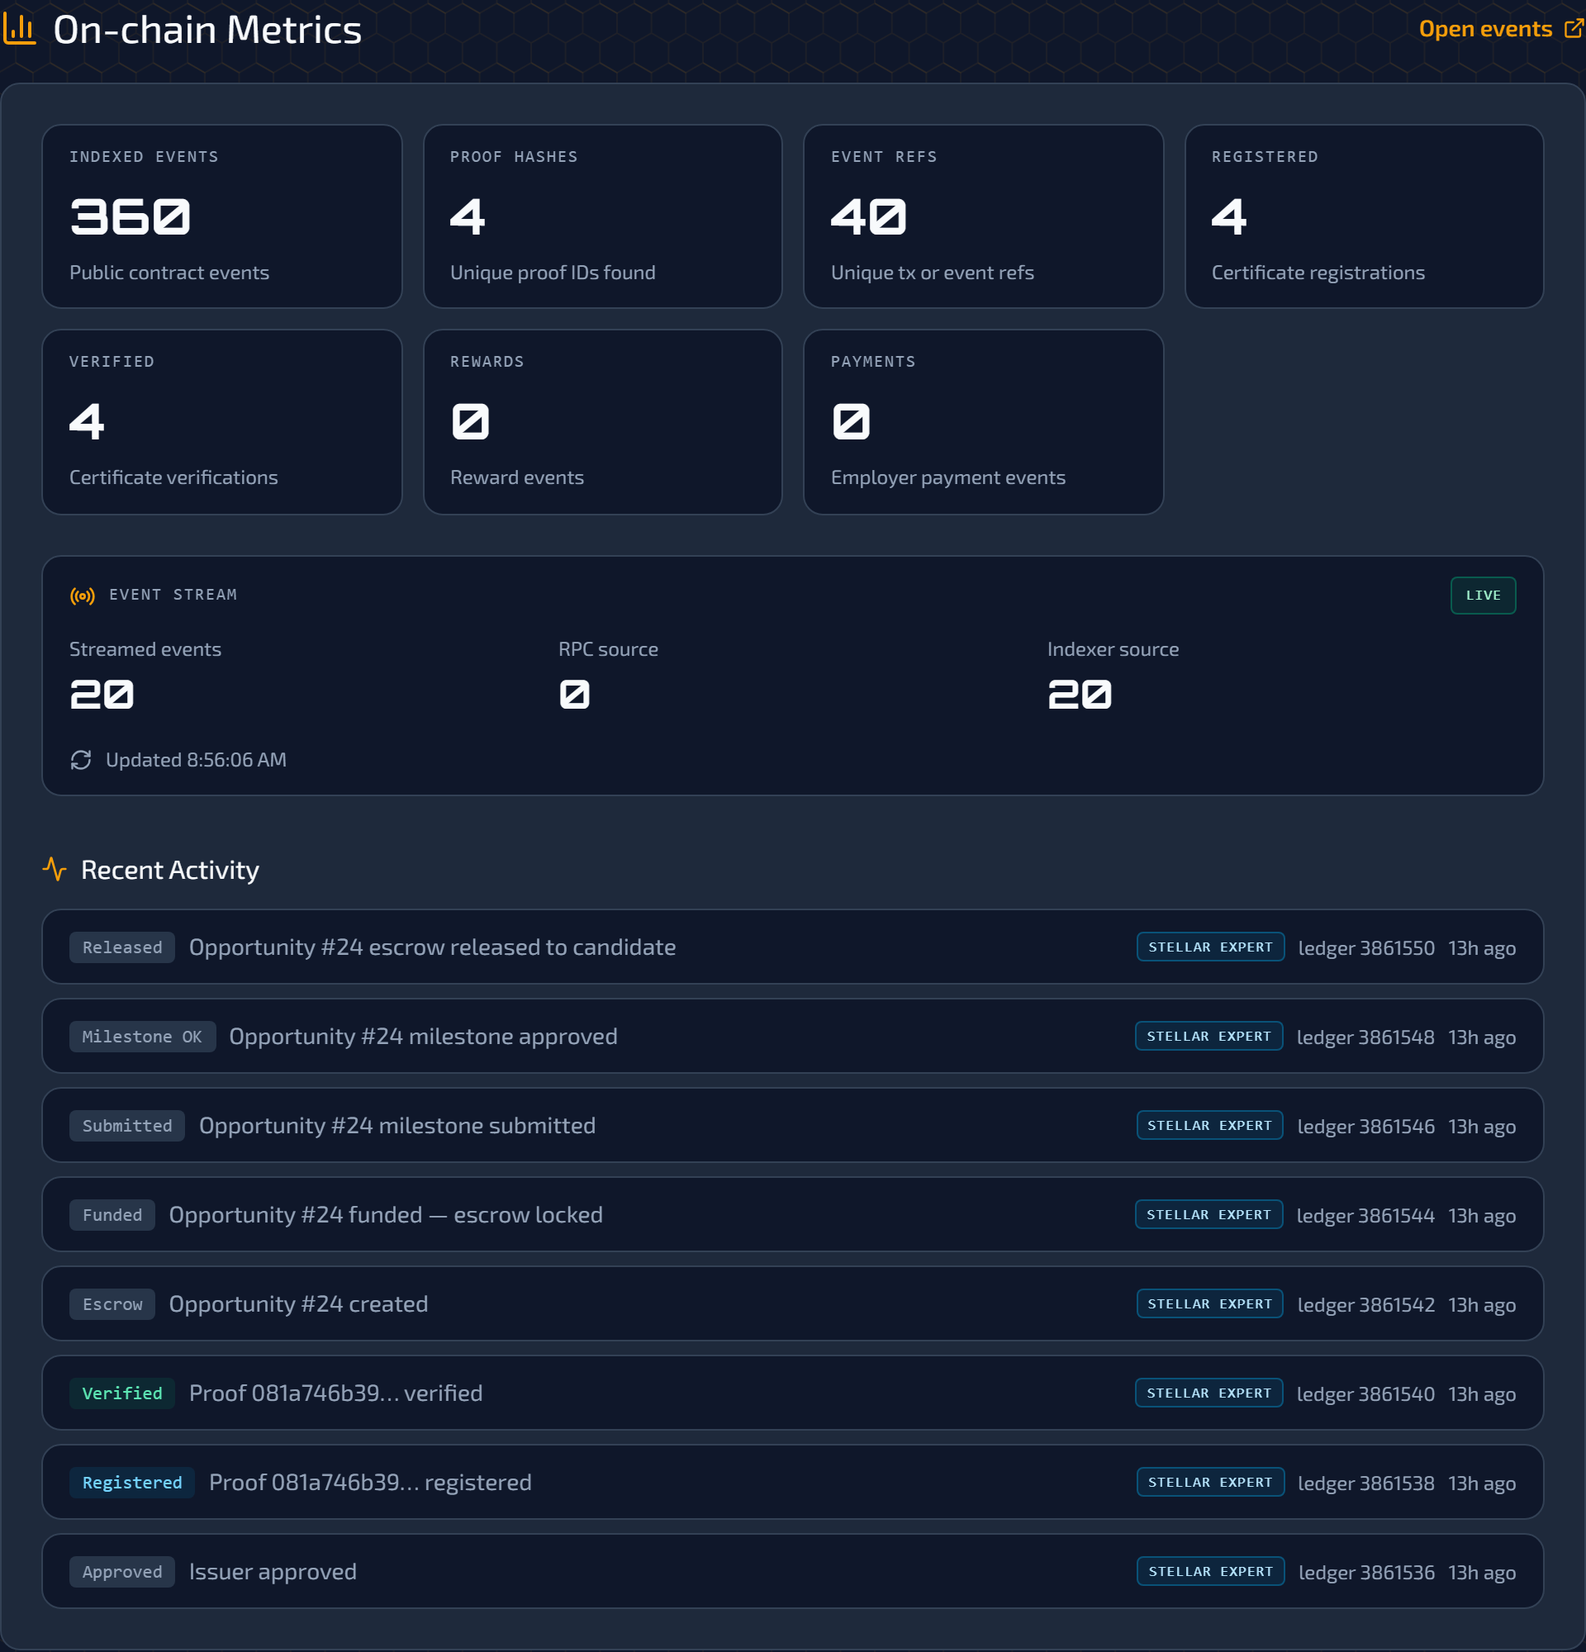
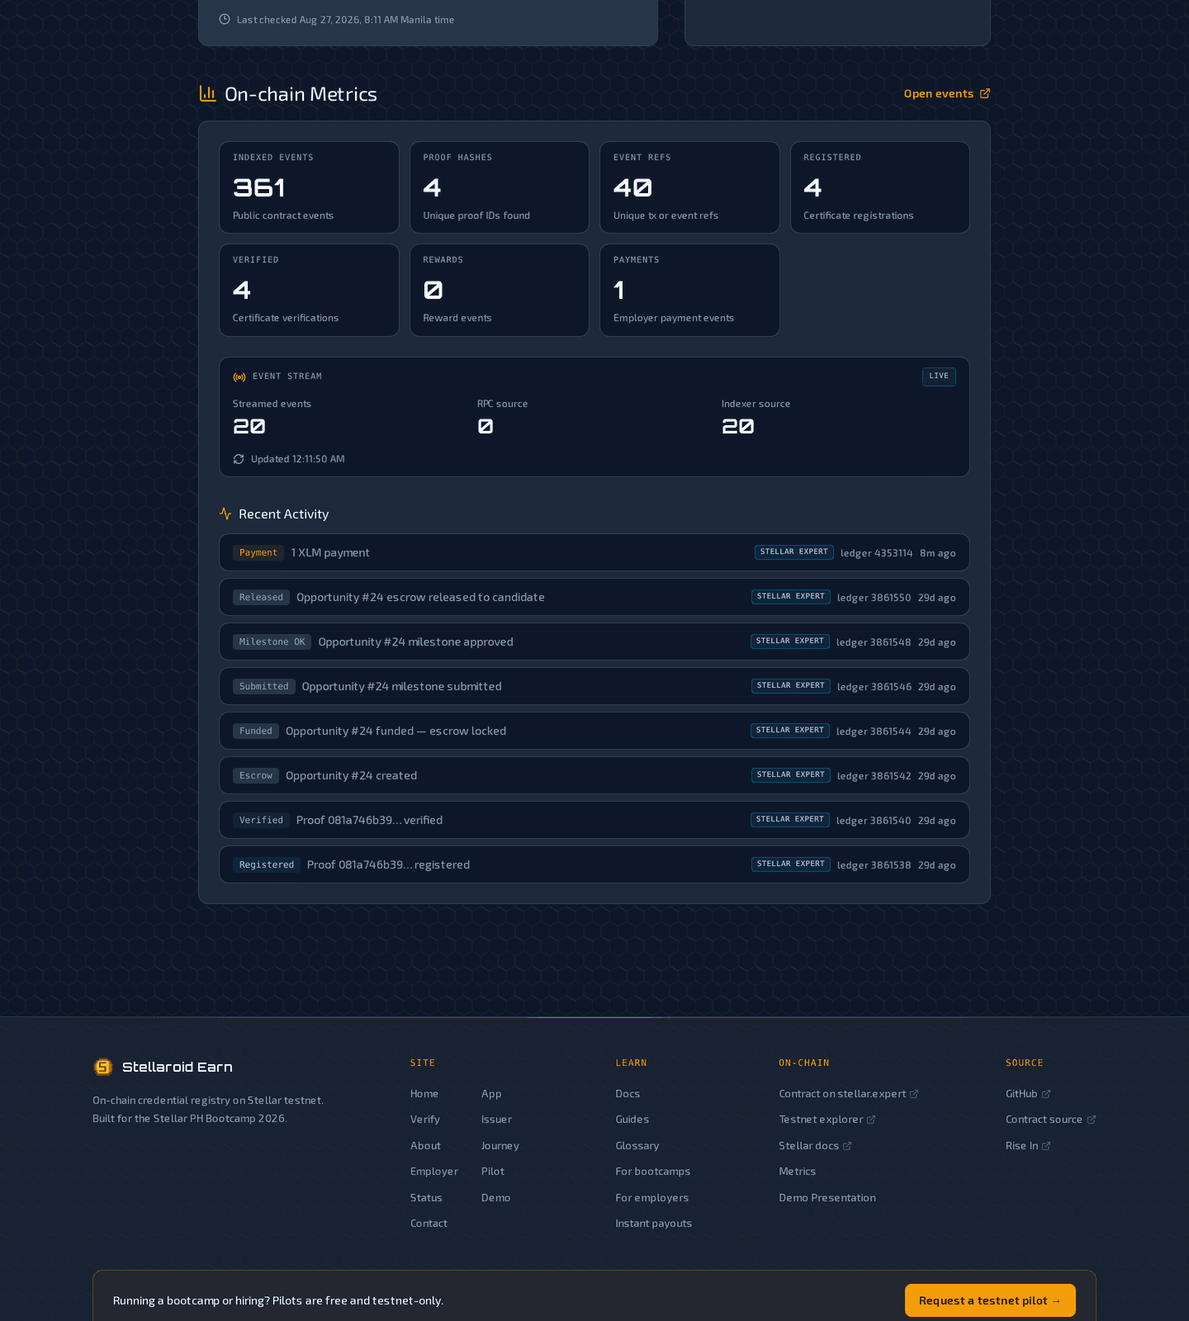
docs: recapture live payment evidence and August analytics (#198)
Record a 1 testnet XLM link_payment against the sample verified credential,
replace the /status metrics screenshot now that Payments is 1, and refresh
the case study plus submission evidence from the Vercel Web Analytics API
as of 27 August 2026. Opportunity #1 is unchanged.

diff --git a/frontend/src/app/case-study/page.tsx b/frontend/src/app/case-study/page.tsx
@@ -14,12 +14,14 @@ import {
   SITE_REPOSITORY_URL,
 } from "@/lib/seo";
 
-// Traffic figures below are a dated snapshot from Vercel Web Analytics
-// (production, April to July 2026), transcribed 2026-07-30. They are
-// deliberately NOT live reads: the case study describes what the data showed at
-// the time decisions were made. On-chain counts carry their as-of date inline
-// and point readers at /status for current values.
+// Traffic figures below are a dated snapshot from the Vercel Web Analytics
+// API (production, April to August 2026), transcribed 2026-08-27. They are
+// deliberately NOT live reads: the case study describes what the data showed
+// at capture time. An earlier dashboard read on 2026-07-30 was 342 visitors
+// and 1,615 page views. On-chain counts carry their as-of date inline and
+// point readers at /status for current values.
 const PUBLISHED = "2026-07-30";
+const FIGURES_AS_OF = "2026-08-27";
 const DEPLOYED_WASM_HASH =
[1 lines of base64/hex data omitted]
 
@@ -55,7 +57,7 @@ const articleJsonLd = {
   mainEntityOfPage: { "@type": "WebPage", "@id": seoCanonicalUrl("/case-study") },
   image: seoCanonicalUrl("/opengraph-image"),
   datePublished: PUBLISHED,
-  dateModified: PUBLISHED,
+  dateModified: FIGURES_AS_OF,
   author: { "@type": "Person", name: SITE_AUTHOR_NAME, url: SITE_AUTHOR_URL },
 };
 
@@ -73,8 +75,9 @@ const CONTENTS = [
 const TRAFFIC = [
   { month: "April 2026", visitors: "66", views: "274" },
   { month: "May 2026", visitors: "111", views: "699" },
-  { month: "June 2026", visitors: "43", views: "175" },
-  { month: "July 2026", visitors: "122", views: "467" },
+  { month: "June 2026", visitors: "44", views: "176" },
+  { month: "July 2026", visitors: "123", views: "480" },
+  { month: "August 2026", visitors: "38", views: "53" },
 ];
 
 const FLOW = [
@@ -135,6 +138,8 @@ export default function CaseStudyPage() {
               <span>Stellaroid Earn</span>
               <span>Stellar testnet</span>
               <span>Published 30 July 2026</span>
+              <span aria-hidden="true">·</span>
+              <span>Figures refreshed 27 August 2026</span>
             </p>
 
             <nav
@@ -170,12 +175,12 @@ export default function CaseStudyPage() {
             <p className="text-lg leading-relaxed text-text">
               I built a system that anchors a training credential on Stellar and
               releases payment against it, then put it in front of real people. In the
-              four months from April to July 2026,{" "}
+              five months from April to August 2026,{" "}
               <strong>
-                48 visitors opened one specific public credential page and 42 opened
+                49 visitors opened one specific public credential page and 44 opened
                 the proof index
               </strong>
-              , second only to the landing page at 302 visitors.
+              , second only to the landing page at 329 visitors.
             </p>
             <p className="text-text-muted">
               The whole premise rests on one bet: a credential is only worth anchoring
@@ -303,7 +308,7 @@ export default function CaseStudyPage() {
             <div className="overflow-x-auto rounded-xl border border-border bg-surface">
               <table className="w-full border-collapse text-sm">
                 <caption className="p-4 pb-2 text-left font-mono text-[0.65rem] uppercase tracking-[0.14em] text-text-muted">
-                  Traffic, April to July 2026
+                  Traffic, April to August 2026
                 </caption>
                 <thead>
                   <tr className="border-t border-border">
@@ -333,10 +338,10 @@ export default function CaseStudyPage() {
                   <tr className="border-t border-border font-semibold">
                     <td className="px-4 py-2.5 text-text">Total</td>
                     <td className="px-4 py-2.5 text-right font-mono tabular-nums text-primary">
-                      342
+                      382
                     </td>
                     <td className="px-4 py-2.5 text-right font-mono tabular-nums text-primary">
-                      1,615
+                      1,682
                     </td>
                   </tr>
                 </tbody>
@@ -345,13 +350,13 @@ export default function CaseStudyPage() {
 
             <p className="text-text-muted">
               One visitor can open several pages, so the per-page figures below do not
-              sum to 342.
+              sum to 382.
             </p>
 
             <SubHeading>Proof pages were the draw</SubHeading>
             <p className="text-text-muted">
-              48 visitors on one specific credential page, 42 on the proof index,
-              against 302 for the landing page.
+              49 visitors on one specific credential page, 44 on the proof index,
+              against 329 for the landing page.
             </p>
             <Pull>
               I stopped treating proof pages as an output and started treating them as
@@ -361,7 +366,7 @@ export default function CaseStudyPage() {
 
             <SubHeading>A third of traffic was mobile</SubHeading>
             <p className="text-text-muted">
-              31% mobile and 2% tablet, which lines up with the 33% running Android or
+              28% mobile and 2% tablet, which lines up with the 30% running Android or
               iOS. I had been building desktop first. That number is why the app got
               app-style bottom navigation, bottom-sheet dialogs, safe-area handling
               for notches, and became an installable progressive web app.
@@ -370,7 +375,7 @@ export default function CaseStudyPage() {
             <SubHeading>Where the traffic came from</SubHeading>
             <p className="text-text-muted">
               19 visitors arrived from Google. Facebook and Messenger sent 49 between
-              them. The audience skewed Philippines at 50% and United States at 35%,
+              them. The audience skewed Philippines at 46% and United States at 36%,
               which is the direct reason Tagalog shipped alongside English. The other
               four locales are a forward-looking bet, ready ahead of the data.
             </p>
@@ -708,10 +713,10 @@ export default function CaseStudyPage() {
               </li>
             </ul>
             <p className="mt-8 text-xs text-text-muted">
-              Traffic figures cover April to July 2026 from Vercel Web Analytics,
-              production environment. On-chain counts are accurate as of 30 July 2026
-              and change as the contract is used; the live status page is the current
-              source. Stellaroid Earn runs on Stellar testnet only.
+              Traffic figures cover April to August 2026 from the Vercel Web Analytics
+              API, production environment, as of 27 August 2026. On-chain counts change
+              as the contract is used; the live status page is the current source.
+              Stellaroid Earn runs on Stellar testnet only.
             </p>
           </footer>
         </main>

diff --git a/docs/operations/submission-evidence.md b/docs/operations/submission-evidence.md
@@ -4,7 +4,7 @@ Use this as the reviewer-facing evidence index for the Rise In checklists. Keep 
 
 ## Level 5 (Blue Belt) Evidence
 
-Focus: user growth, product iteration, pitch and demo. The 50+ testnet wallet account threshold is reached with public wallet and transaction evidence: 30 independent participant wallets plus 24 testnet accounts I created and operate for structured QA. Analytics screenshots remain tracked separately.
+Focus: user growth, product iteration, pitch and demo. The 50+ testnet wallet account threshold is reached with public wallet and transaction evidence: 30 independent participant wallets plus 24 testnet accounts I created and operate for structured QA. Analytics snapshot boards are in `images/`.
 
 | Requirement | Evidence | Status |
 | --- | --- | --- |
@@ -20,47 +20,46 @@ Focus: user growth, product iteration, pitch and demo. The 50+ testnet wallet ac
 | Optimized onboarding experience | `https://stellaroid.tech/start` - a one-tap "try it in 60 seconds" wizard: connect a wallet, auto-fund on testnet, sign one real on-chain action | Done |
 | Structured testnet QA coverage | [`guided-qa-cohort-2026-07.md`](guided-qa-cohort-2026-07.md) records 24 controlled QA accounts, eight role-based journeys, and 72 public transactions | Done |
 | Proof of 50+ testnet wallet accounts with real network activity | README "User Validation" and the guided QA evidence log document 54 public wallets linked to Stellar Expert evidence, split as 30 independent participant wallets plus 24 testnet accounts I created and operate for structured QA. All 54 are real, separately funded testnet accounts with public transaction history. Rise In words this requirement as "50+ testnet users onboarded"; the 54 figure counts wallet accounts with real network activity, of which 30 are independent people. | Done (54 of 50 wallet accounts; 30 independent) |
-| Screenshots of transaction activity | [`images/status-onchain-metrics.png`](../../images/status-onchain-metrics.png) captured from the live `/status#metrics` panel: 360 indexed public contract events, the live event stream, and the recent-activity feed with a Stellar Expert link per event. [`images/opportunity-directory-escrows.png`](../../images/opportunity-directory-escrows.png) captured from `/opportunity`, showing all 25 escrows on the contract including all eight guided-QA paid trials by title. | Done |
-| Product analytics | Vercel Web Analytics, production, trailing 12 months to 2026-07-30: **342 visitors, 1,615 page views, 56% bounce rate.** Figures transcribed in "Traffic and Audience" below. Dashboard screenshots are held and pending commit. | Data recorded; screenshots pending |
+| Screenshots of transaction activity | [`images/status-onchain-metrics.png`](../../images/status-onchain-metrics.png) recaptured from the live `/status#metrics` panel on 2026-08-27: 361 indexed public contract events, Payments tile 1, and a recent-activity row for 1 testnet XLM (`link_payment` tx [`7173ace8…48c7`](https://stellar.expert/explorer/testnet/tx/7173ace84a571b862b5a8684aa6342dfd8cb9ba4f1ab8381111bb08216d348c7), no monetary value). [`images/opportunity-directory-escrows.png`](../../images/opportunity-directory-escrows.png) captured from `/opportunity`, showing all 25 escrows on the contract including all eight guided-QA paid trials by title. | Done |
+| Product analytics | Vercel Web Analytics API, production, trailing 12 months to 2026-08-27: **382 visitors, 1,682 page views.** Figures transcribed in "Traffic and Audience" below. Snapshot boards: [overview](../../images/vercel-web-analytics-overview.png), [pages](../../images/vercel-web-analytics-pages.png), [referrers](../../images/vercel-web-analytics-referrers.png), [geo and devices](../../images/vercel-web-analytics-geo-devices.png). The Vercel dashboard UI was not captured (login required). Bounce rate is not in the API; the 30 July 2026 dashboard read was 56%. | Done (API snapshot) |
 
 **50+ wallet coverage reached:** 54 of 50 testnet wallet accounts are documented with public evidence, comprising 30 independent participant wallets and 24 testnet accounts I created and operate for structured QA. Transaction-activity screenshots are attached, and the traffic figures below are recorded.
 
 ## Traffic and Audience
 
-Source: Vercel Web Analytics, Production environment, trailing 12 months as of
-2026-07-30. Traffic begins in March 2026; every prior month is zero.
+Source: Vercel Web Analytics API, Production environment, trailing 12 months as
+of 2026-08-27. Traffic begins in April 2026; March and every prior month are
+zero. These boards are API snapshots, not screenshots of the Vercel dashboard
+UI. A 30 July 2026 dashboard read was 342 visitors, 1,615 page views, and 56%
+bounce rate; monthly bounce is not returned by the API used for this recapture.
 
-| Month | Visitors | Page views | Bounce rate |
-| --- | --- | --- | --- |
-| Apr 2026 | 66 | 274 | 44% |
-| May 2026 | 111 | 699 | 64% |
-| Jun 2026 | 43 | 175 | 56% |
-| Jul 2026 | 122 | 467 | 56% |
-| **Total** | **342** | **1,615** | 56% |
+| Month | Visitors | Page views |
+| --- | --- | --- |
+| Apr 2026 | 66 | 274 |
+| May 2026 | 111 | 699 |
+| Jun 2026 | 44 | 176 |
+| Jul 2026 | 123 | 480 |
+| Aug 2026 | 38 | 53 |
+| **Total** | **382** | **1,682** |
 
-The monthly columns sum exactly to the dashboard totals (342 and 1,615), so the
+The monthly columns sum exactly to the API totals (382 and 1,682), so the
 breakdown is complete rather than a sampled window.
-
-**Reading the bounce-rate delta honestly:** the dashboard shows `+56%` in red
-against the previous period. The previous 12-month window had no traffic at all,
-so that is a from-zero baseline artifact, not a regression in engagement.
 
 | Dimension | Top values |
 | --- | --- |
-| Pages (visitors) | `/` 302 · `/app` 77 · `/proof/c02ce160…` 48 · `/proof` 42 · `/about` 40 · `/employer` 32 · `/issuer` 26 |
+| Pages (visitors) | `/` 329 · `/app` 77 · `/proof/c02ce160…` 49 · `/proof` 44 · `/about` 41 · `/employer` 35 · `/issuer/register` 29 · `/issuer` 27 |
 | Referrers (visitors) | Facebook family 49 (l.facebook 26, m.facebook 11, facebook 7, l.messenger 5) · google.com 19 · github.com 8 · vercel.com 6 |
-| Countries | Philippines 50% · United States 35% · Singapore 2% · Indonesia 1% · Canada 1% |
-| Devices | Desktop 67% · Mobile 31% · Tablet 2% |
-| Operating systems | Windows 39% · Android 19% · GNU/Linux 15% · iOS 14% · macOS 13% |
-| Hostnames (visitors) | stellaroid.tech 248 · stellaroid-earn-demo.vercel.app 95 · preview hosts 3 |
+| Countries | Philippines 46% · United States 36% · Singapore 2% · Germany 2% · Canada 1% · Indonesia 1% |
+| Devices | Desktop 70% · Mobile 28% · Tablet 2% |
+| Operating systems | Windows 43% · Android 17% · GNU/Linux 15% · iOS 13% · macOS 12% |
 
 Three things worth drawing out, because they bear on the product claims rather
 than being vanity numbers:
 
-- **90 visitors reached a proof page** (`/proof/c02ce160…` 48 plus `/proof` 42).
+- **93 visitors reached a proof page** (`/proof/c02ce160…` 49 plus `/proof` 44).
   The public, wallet-free credential page is the core artifact, and it is the
   second most visited area after the landing page.
-- **31% of traffic is mobile and 33% is Android or iOS**, which is the evidence
+- **28% of traffic is mobile and 30% is Android or iOS**, which is the evidence
   base for the mobile-first redesign and the PWA work rather than a guess.
 - **19 visitors arrived from organic Google search**, so the content and
   structured-data work is being indexed and clicked, not just published.

diff --git a/HANDOFF.md b/HANDOFF.md
@@ -1,6 +1,6 @@
 # Handoff
 
-State of this repository as of **2026-08-26**, written so anyone picking it up cold, human or agent, on any machine or account, knows where things stand without needing chat history.
+State of this repository as of **2026-08-27**, written so anyone picking it up cold, human or agent, on any machine or account, knows where things stand without needing chat history.
 
 **The project is finished and parked.** Do not restart build work here. Read this file before proposing changes.
 
@@ -8,13 +8,13 @@ State of this repository as of **2026-08-26**, written so anyone picking it up c
 
 ## Current state
 
-Verified against the remote on 2026-08-26:
+Verified against the remote on 2026-08-27:
 
 | Check | State |
 | --- | --- |
-| Open pull requests | Dependabot npm-minor-patch (#192), ImgBot (#193) |
-| `main` vs `august-monthly-builder` | tree-identical at `5b17f05` (August fast-forwarded from `main` on 2026-08-26) |
-| `staging` | lags `main`; open a `main` to `staging` sync PR after this file lands |
+| Open pull requests | Dependabot npm-minor-patch (#192), ImgBot (#193), staging sync (#197). Evidence polish lands on its own PR. |
+| `main` vs `august-monthly-builder` | tree-identical at `990c6fb` before this polish; fast-forward August again after the polish PR merges |
+| `staging` | lags `main`; #197 is the open `main` to `staging` sync for the CI trim. Open a fresh sync after this polish merges. |
 | `july-monthly-builder` | frozen read-only archive at `baeec6fb`; never sync it |
 | Working tree | clean |
 | CodeQL open alerts | 0 |
@@ -103,14 +103,12 @@ The product is parked. Host-side DNS for `v4` is a side-note blocker and does no
 
 ### Evidence polish, optional and cosmetic
 
-- [ ] One manual `link_payment` from a fresh funded wallet. Until then the `PAYMENTS` tile on `/status` reads 0, and the committed metrics screenshot shows it.
-- [ ] Save the Vercel Web Analytics dashboard screenshots into `images/` and link them from `docs/operations/submission-evidence.md`, where that row currently reads "screenshots pending". The figures themselves are already transcribed there.
-
-Both gaps are **disclosed honestly already**, including in the public case study, so skipping them costs nothing in credibility.
[1 lines of base64/hex data omitted]
+- [x] Vercel Web Analytics recapture for production, trailing 12 months as of 2026-08-27: **382 visitors, 1,682 page views**. Monthly bounce rate is not in the analytics API; the 30 July 2026 dashboard read was 56%. The Vercel dashboard UI requires a login this environment does not have, so the committed boards are API snapshots, labelled as such, not dashboard chrome: `images/vercel-web-analytics-overview.png`, `images/vercel-web-analytics-pages.png`, `images/vercel-web-analytics-referrers.png`, `images/vercel-web-analytics-geo-devices.png`. Linked from `docs/operations/submission-evidence.md`.
 
 ### Completed
 
-Submission, `v3.2.0` release, the case study at `/case-study`, the campaign kit, unified Open Graph cards, README visuals, the banner archive scheme, the GitHub social preview upload, and the repository parking pass are all done. July is a locked read-only archive. `august-monthly-builder` matches `main` at `5b17f05`. Leftover PRs #183 and #182 were closed as superseded by #191.
+Submission, `v3.2.0` release, the case study at `/case-study`, the campaign kit, unified Open Graph cards, README visuals, the banner archive scheme, the GitHub social preview upload, the repository parking pass, the live `link_payment` evidence recapture, and the August analytics API snapshot are all done. July is a locked read-only archive. Leftover PRs #183 and #182 were closed as superseded by #191. After this polish merges, fast-forward `august-monthly-builder` from `main` and open a new staging sync. Never sync July.
 
 ---
 

diff --git a/contracts/stellaroid_earn/README.md b/contracts/stellaroid_earn/README.md
@@ -120,7 +120,9 @@ https://stellar.expert/explorer/testnet/contract/<CONTRACT_ID>
   - `init` → https://stellar.expert/explorer/testnet/tx/c7de2d61cfd1f51cfb255379775dd928604d264d6b5bb3775dc75cdd7c4b5721
   - `register_certificate` → https://stellar.expert/explorer/testnet/tx/1e8078e36333023c46f11a0bd990f97b62bd13ae086597de6a3db8e66d4b3a22 (emits `cert_reg`)
   - `verify_certificate` → https://stellar.expert/explorer/testnet/tx/2215e08ecc935b6f31d5c335c3aaea3e3742f07ef993d8ca947d1711ad5199d9 (emits `cert_ver`, returns `true`)
-  - `link_payment` (100 XLM) → https://stellar.expert/explorer/testnet/tx/5bed652b3725a6826cd4a99e8c750cdd2dc4625f7e3a4a82661680ada50cb435 (emits `payment` + SAC `transfer`)
+  - `link_payment` (100 testnet XLM) → https://stellar.expert/explorer/testnet/tx/5bed652b3725a6826cd4a99e8c750cdd2dc4625f7e3a4a82661680ada50cb435 (emits `payment` + SAC `transfer`)
+- **Current contract `link_payment` (2026-08-27, 1 testnet XLM, no monetary value, sample verified credential `c02ce160…aea3`):**
+  https://stellar.expert/explorer/testnet/tx/7173ace84a571b862b5a8684aa6342dfd8cb9ba4f1ab8381111bb08216d348c7
 - **Verified events:** `init`, `cert_reg`, `cert_ver`, `payment` — all visible on the contract's Events tab on stellar.expert.
 - **Historical rubric self-check for the pre-trust-layer demo:**
   - [x] Contract deployed + verified on stellar.expert

diff --git a/docs/operations/demo-exhibits.md b/docs/operations/demo-exhibits.md
@@ -40,6 +40,22 @@ show funds sitting in the contract. Seeded 2026-07-10.
 
 Do **not** approve/release/refund exhibit B — its value is being live.
 
+## Direct `link_payment` evidence (2026-08-27)
+
+One testnet XLM (`10000000` stroops, no monetary value) from a fresh
+Friendbot-funded employer wallet, not `demo-employer` and not one of the 24 QA
+keys, to the sample credential owner above. Opportunity #1 was not touched.
+
+| Field | Value |
+| --- | --- |
+| Employer | `GASY7N4RT2AJBPO43MYLMPU5K2NT7VFHMPNIOPAWZ4HVRREMCTK7O4XT` |
+| Amount | 1 testnet XLM |
[1 lines of base64/hex data omitted]
+| Ledger | 4353114 |
+
+This is what moves the `/status#metrics` Payments tile. Escrow `release_payment`
+events are counted separately as `pay_rel`.
+
 ## Frontend wiring
 
 - `frontend/src/lib/config.ts` — `demoOpportunityReleasedId` (default `"0"`) and
